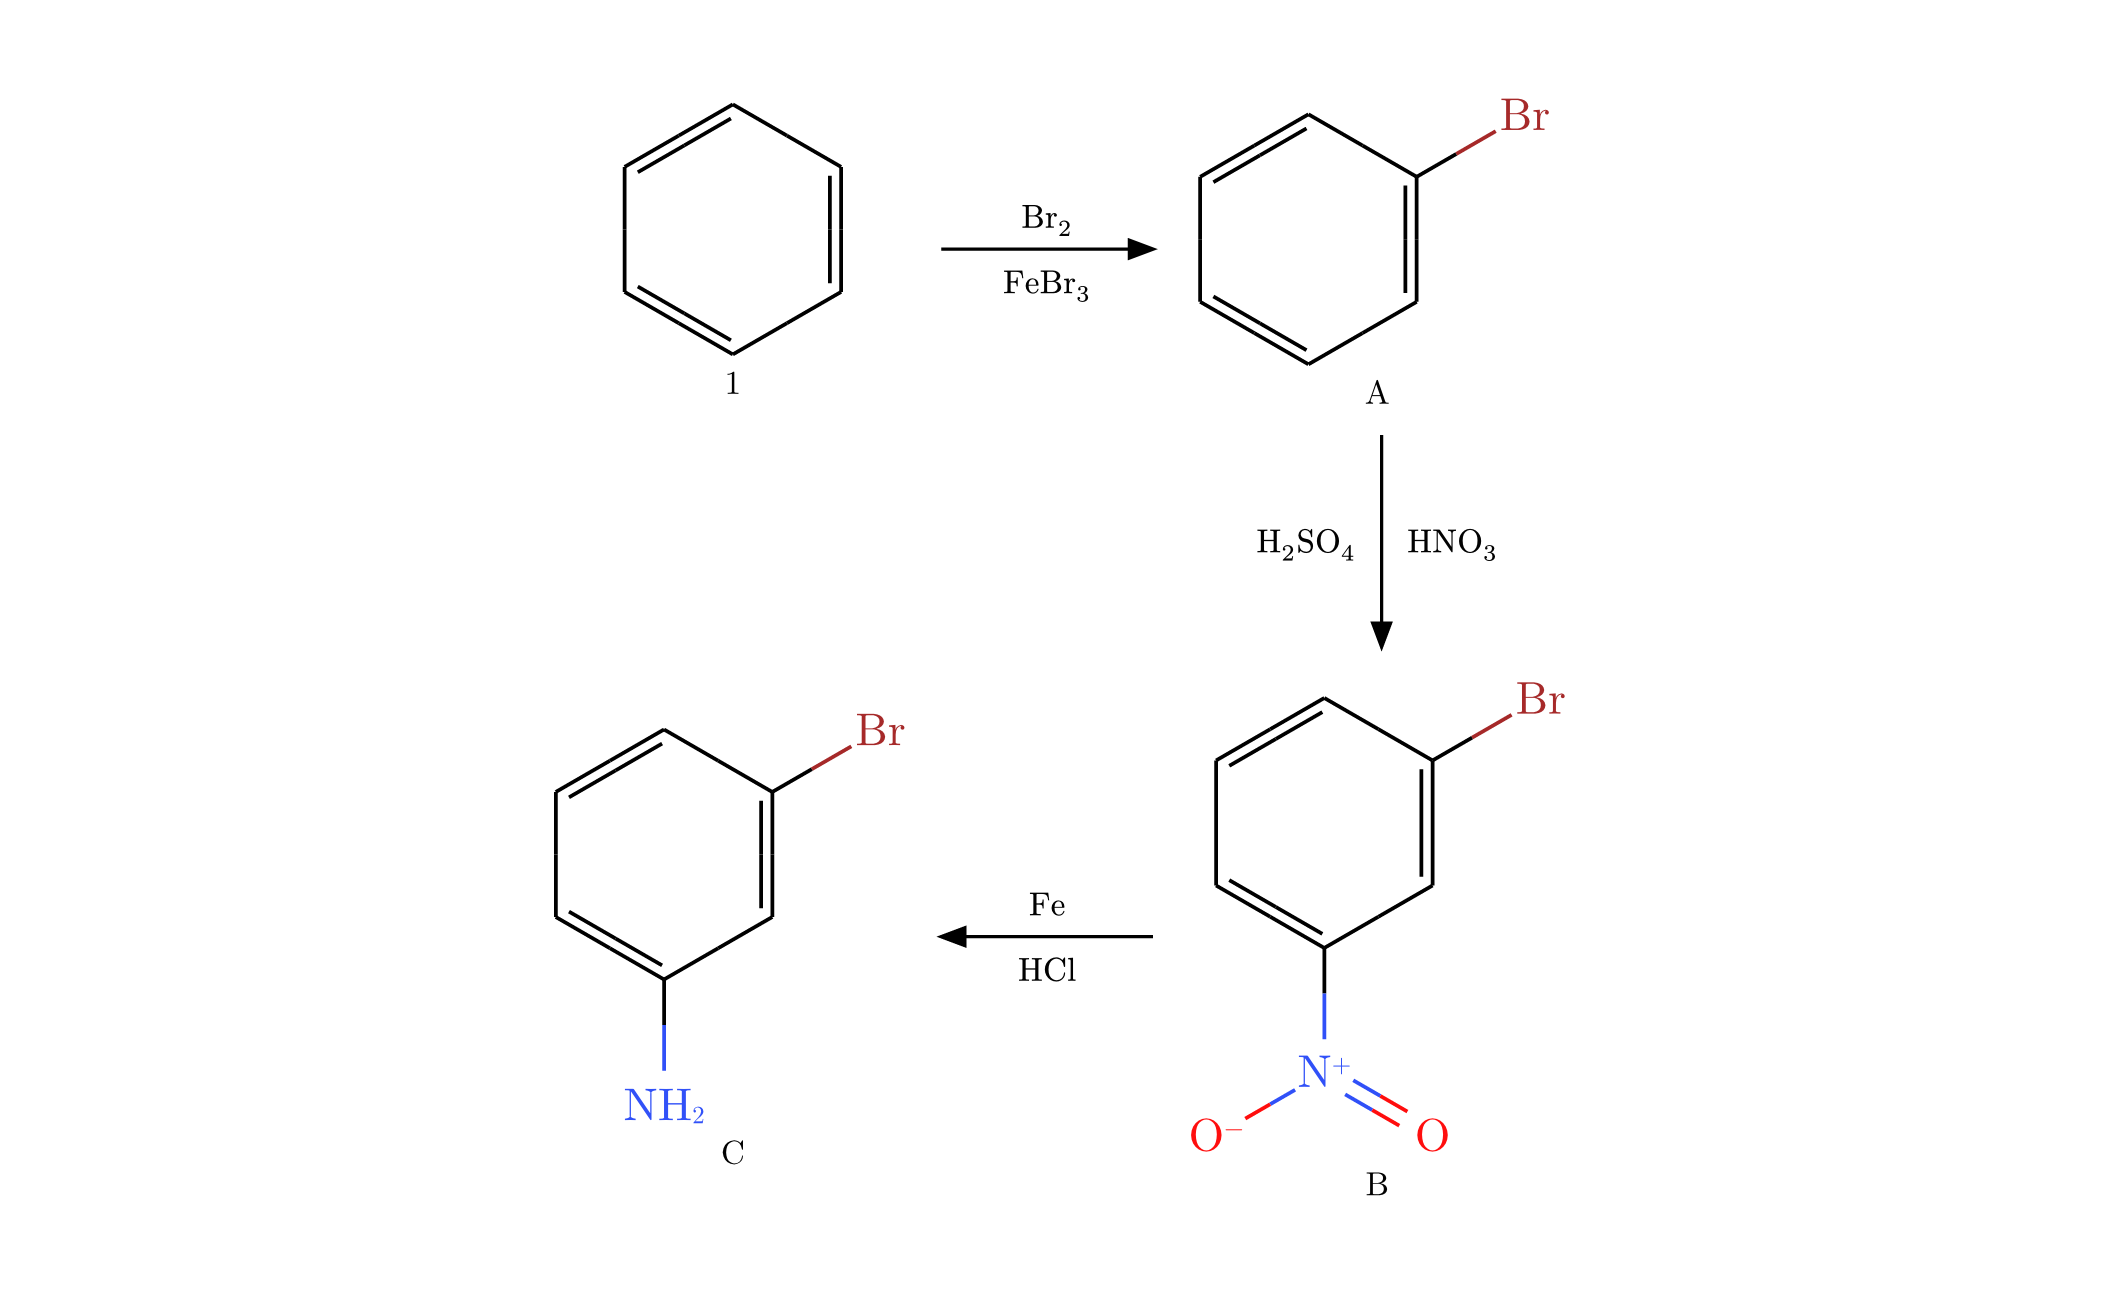
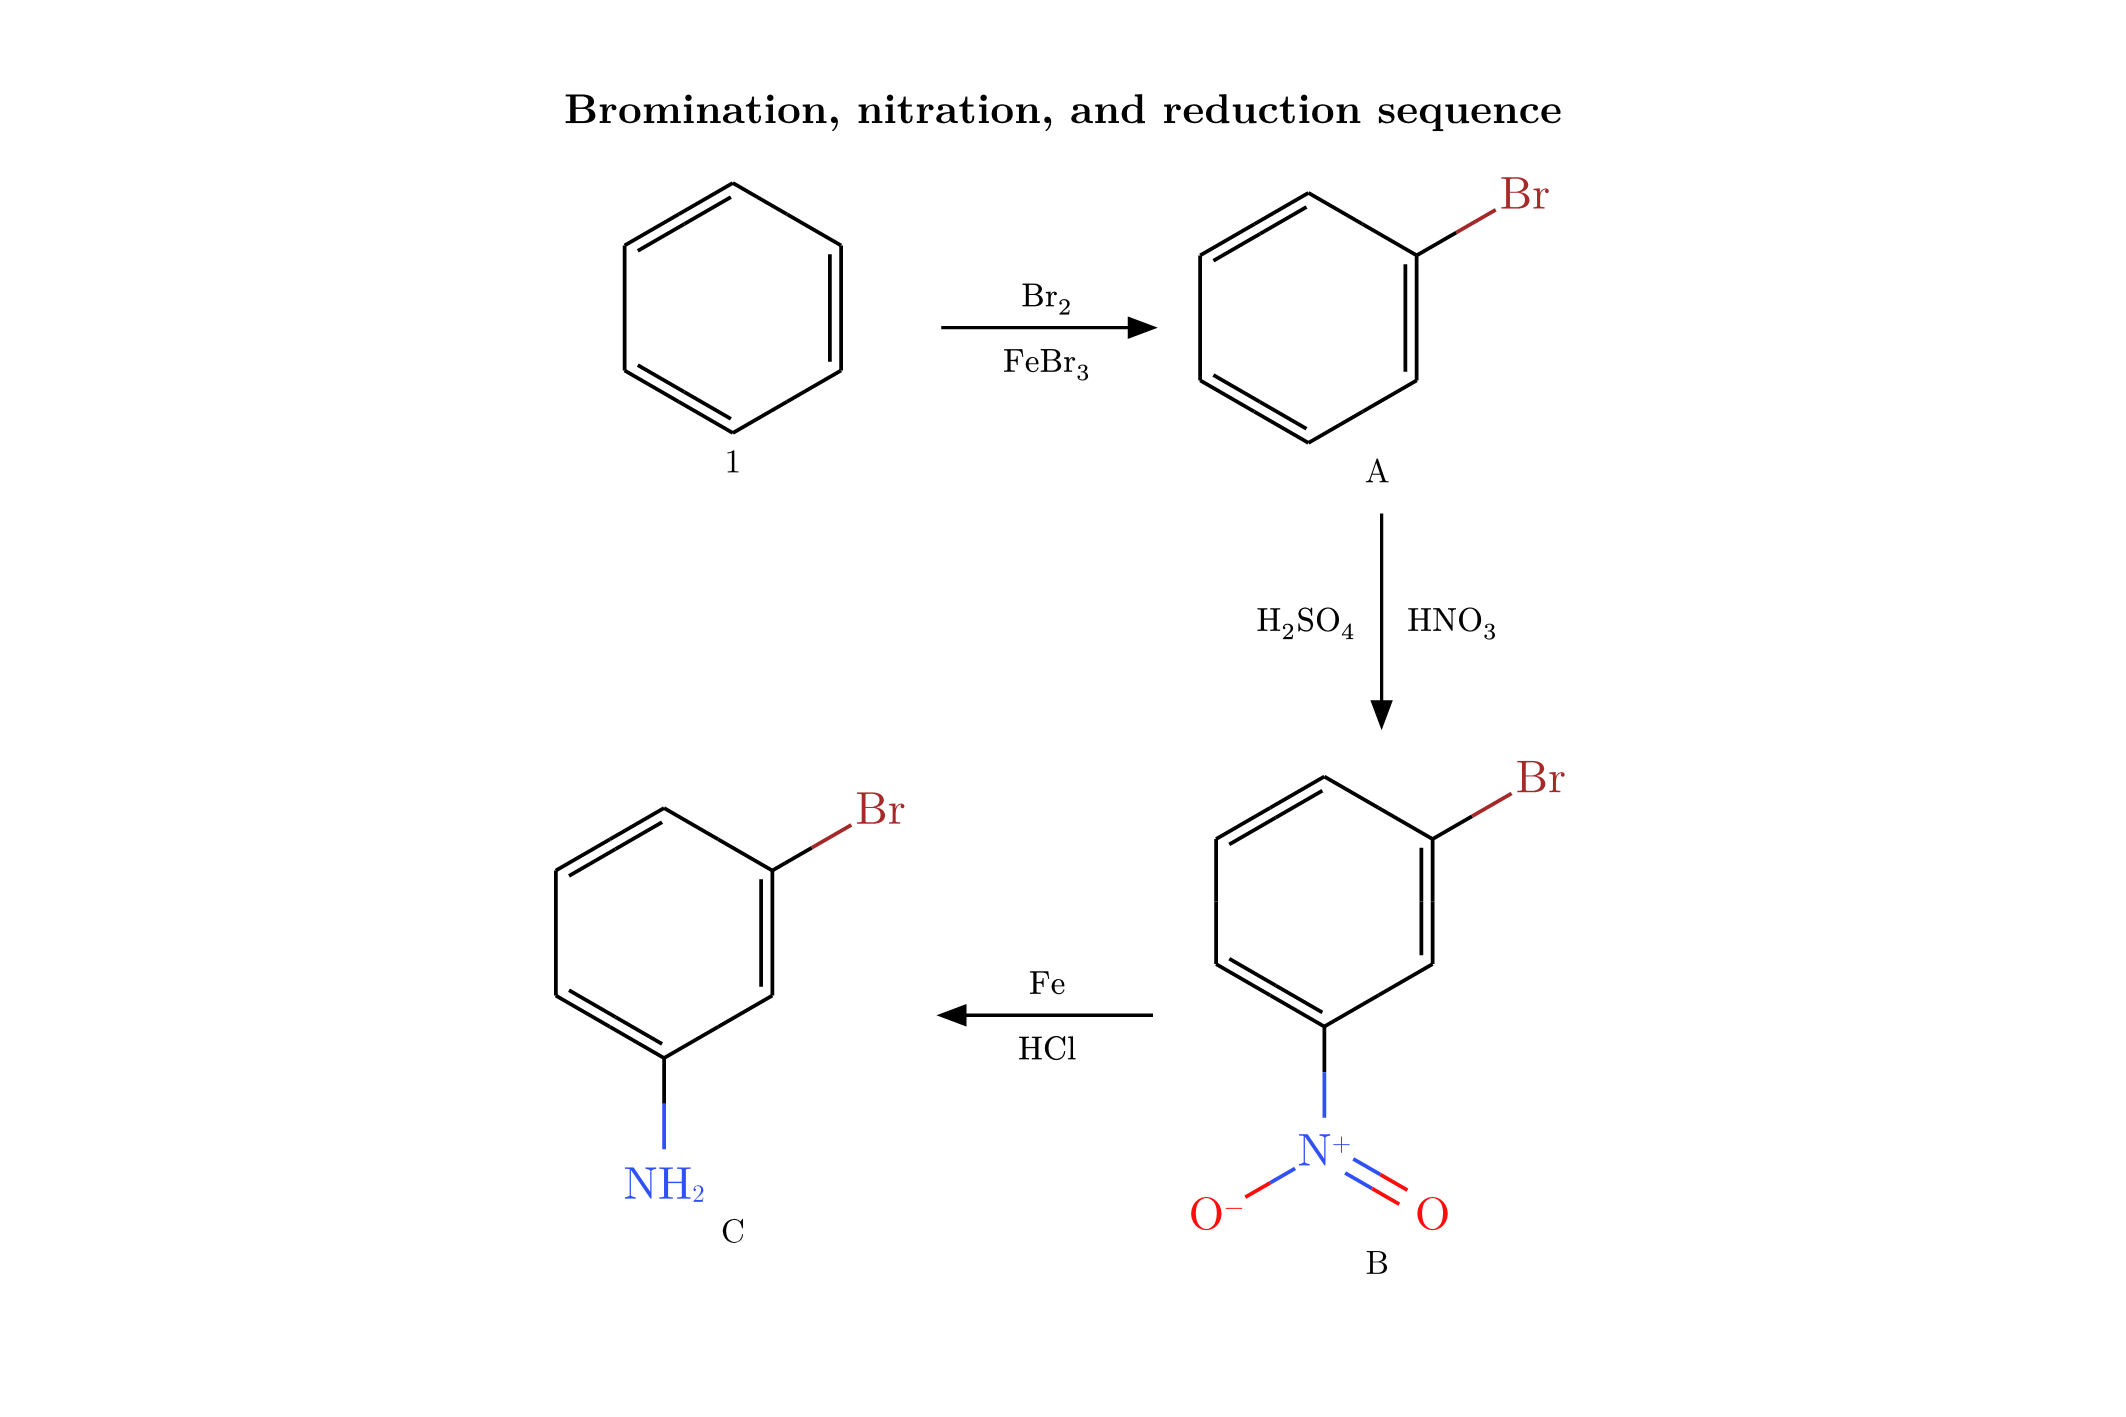
Refine README example tables

diff --git a/README.md b/README.md
@@ -16,15 +16,21 @@ skeletal structure.
 ```typst
 #import "@preview/typed-smiles:0.2.0": smiles
 
-#grid(
+#table(
   columns: (1fr, 1fr, 1fr, 1fr),
   gutter: 1.2em,
-  align: center,
+  align: center + horizon,
+  stroke: 0.4pt + rgb("#d8d8d8"),
 
-  [*Ethanol* \ #smiles("CCO")],
-  [*Alanine* \ #smiles("CC(N)C(=O)O")],
-  [*Chlorobenzene* \ #smiles("ClC1=CC=CC=C1")],
-  [*Furan* \ #smiles("C1=CC=CO1")],
+  [*Ethanol*],
+  [*Alanine*],
+  [*Chlorobenzene*],
+  [*Furan*],
+
+  [#smiles("CCO")],
+  [#smiles("CC(N)C(=O)O")],
+  [#smiles("ClC1=CC=CC=C1")],
+  [#smiles("C1=CC=CO1")],
 )
 ```
 
@@ -36,16 +42,19 @@ Use `bond-length` to scale diagrams. The scale is uniform, so the molecule keeps
 its aspect ratio. Here is the same molecule drawn at three sizes:
 
 ```typst
-#grid(
+#table(
   columns: (1fr, 1fr, 1fr),
   gutter: 1.2em,
-  align: center,
+  align: center + horizon,
+  stroke: 0.4pt + rgb("#d8d8d8"),
 
-  [*Small* \ #smiles("C1=CC=CC=C1", bond-length: 0.8)],
+  [*Small*],
+  [*Default*],
+  [*Large*],
 
-  [*Default* \ #smiles("C1=CC=CC=C1")],
-
-  [*Large* \ #smiles("C1=CC=CC=C1", bond-length: 1.4)],
+  [#smiles("C1=CC=CC=C1", bond-length: 0.8)],
+  [#smiles("C1=CC=CC=C1")],
+  [#smiles("C1=CC=CC=C1", bond-length: 1.4)],
 )
 ```
 
@@ -61,15 +70,21 @@ carbon hydrogens, bracket syntax for explicit hydrogens, and `{label}` for
 custom upright group labels.
 
 ```typst
-#grid(
+#table(
   columns: (1fr, 1fr, 1fr, 1fr),
   gutter: 1.2em,
-  align: center,
+  align: center + horizon,
+  stroke: 0.4pt + rgb("#d8d8d8"),
 
-  [*Default hetero H* \ #smiles("CC(N)C(=O)O")],
-  [*All H* \ #smiles("CCO", show-all-h: true)],
-  [*Explicit bracket H* \ #smiles("[NH3]")],
-  [*Custom label* \ #smiles("{PPh3}C=O")],
+  [*Default hetero H*],
+  [*All H*],
+  [*Explicit bracket H*],
+  [*Custom label*],
+
+  [#smiles("CC(N)C(=O)O")],
+  [#smiles("CCO", show-all-h: true)],
+  [#smiles("[NH3]")],
+  [#smiles("{PPh3}C=O")],
 )
 ```
 
@@ -85,16 +100,22 @@ diagram would be unnecessary.
 ```typst
 #import "@preview/typed-smiles:0.2.0": ce
 
-#grid(
+#table(
   columns: (1fr, 1fr),
   gutter: 1.2em,
   row-gutter: 1em,
-  align: center,
+  align: center + horizon,
+  stroke: 0.4pt + rgb("#d8d8d8"),
 
-  [*Formula* \ #ce("H2SO4")],
-  [*Ions* \ #ce("(NH4)2SO4")],
-  [*Combustion* \ #ce("CH4 + 2O2 -> CO2 + 2H2O")],
-  [*Equilibrium* \ #ce("N2 + 3H2 <=> 2NH3")],
+  [*Formula*],
+  [*Ions*],
+  [#ce("H2SO4")],
+  [#ce("(NH4)2SO4")],
+
+  [*Combustion*],
+  [*Equilibrium*],
+  [#ce("CH4 + 2O2 -> CO2 + 2H2O")],
+  [#ce("N2 + 3H2 <=> 2NH3")],
 )
 ```
 
@@ -109,20 +130,24 @@ plus signs, labels, and arrow conditions in one layout.
 ```typst
 #import "@preview/typed-smiles:0.2.0": smiles, ce, rxn-arrow, mol, reaction
 
-#reaction(
-  mol(smiles("CC(=O)O"), label: text(size: 8pt)[acetic acid]),
-  [+],
-  mol(smiles("CCO"), label: text(size: 8pt)[ethanol]),
-  rxn-arrow(above: ce("H+"), below: [heat]),
-  mol(smiles("CCOC(=O)C"), label: text(size: 8pt)[ethyl acetate]),
-  [+],
-  ce("H2O"),
-)
-
-#reaction(
-  mol(smiles("C1=CC=CC=C1"), label: text(size: 8pt)[benzene]),
-  rxn-arrow(above: ce("Br2"), below: ce("FeBr3")),
-  mol(smiles("BrC1=CC=CC=C1"), label: text(size: 8pt)[bromobenzene]),
+#stack(
+  spacing: 1.2em,
+  align(center, strong[Fischer esterification]),
+  align(center, reaction(
+    mol(smiles("CC(=O)O"), label: text(size: 8pt)[acetic acid]),
+    [+],
+    mol(smiles("CCO"), label: text(size: 8pt)[ethanol]),
+    rxn-arrow(above: ce("H+"), below: [heat]),
+    mol(smiles("CCOC(=O)C"), label: text(size: 8pt)[ethyl acetate]),
+    [+],
+    ce("H2O"),
+  )),
+  align(center, strong[Electrophilic aromatic bromination]),
+  align(center, reaction(
+    mol(smiles("C1=CC=CC=C1"), label: text(size: 8pt)[benzene]),
+    rxn-arrow(above: ce("Br2"), below: ce("FeBr3")),
+    mol(smiles("BrC1=CC=CC=C1"), label: text(size: 8pt)[bromobenzene]),
+  )),
 )
 ```
 
@@ -134,14 +159,18 @@ Reaction arrows can point right, left, up, or down. This lets you write compact
 wrap-around schemes without manually placing every molecule.
 
 ```typst
-#reaction(
-  mol(smiles("C1=CC=CC=C1"), label: text(size: 8pt)[1]),
-  rxn-arrow(above: ce("Br2"), below: ce("FeBr3")),
-  mol(smiles("BrC1=CC=CC=C1"), label: text(size: 8pt)[A]),
-  rxn-arrow(dir: "down", above: ce("HNO3"), below: ce("H2SO4")),
-  mol(smiles("BrC1=CC(=CC=C1)[N+](=O)[O-]"), label: text(size: 8pt)[B]),
-  rxn-arrow(dir: "left", above: ce("Fe"), below: ce("HCl")),
-  mol(smiles("BrC1=CC(=CC=C1)N"), label: text(size: 8pt)[C]),
+#stack(
+  spacing: 1.2em,
+  align(center, strong[Bromination, nitration, and reduction sequence]),
+  align(center, reaction(
+    mol(smiles("C1=CC=CC=C1"), label: text(size: 8pt)[1]),
+    rxn-arrow(above: ce("Br2"), below: ce("FeBr3")),
+    mol(smiles("BrC1=CC=CC=C1"), label: text(size: 8pt)[A]),
+    rxn-arrow(dir: "down", above: ce("HNO3"), below: ce("H2SO4")),
+    mol(smiles("BrC1=CC(=CC=C1)[N+](=O)[O-]"), label: text(size: 8pt)[B]),
+    rxn-arrow(dir: "left", above: ce("Fe"), below: ce("HCl")),
+    mol(smiles("BrC1=CC(=CC=C1)N"), label: text(size: 8pt)[C]),
+  )),
 )
 ```
 
@@ -154,15 +183,21 @@ markers visually, but it does not yet perform full stereochemical
 interpretation.
 
 ```typst
-#grid(
+#table(
   columns: (1fr, 1fr, 1fr, 1fr),
   gutter: 1.2em,
-  align: center,
+  align: center + horizon,
+  stroke: 0.4pt + rgb("#d8d8d8"),
 
-  [*Solid wedge* \ #smiles("C/N")],
-  [*Hashed wedge* \ #smiles("C\\N")],
-  [*Mixed* \ #smiles("F/C\\Cl")],
-  [*With carbon H* \ #smiles("CCO", show-all-h: true)],
+  [*Solid wedge*],
+  [*Hashed wedge*],
+  [*Mixed*],
+  [*With carbon H*],
+
+  [#smiles("C/N")],
+  [#smiles("C\\N")],
+  [#smiles("F/C\\Cl")],
+  [#smiles("CCO", show-all-h: true)],
 )
 ```
 
